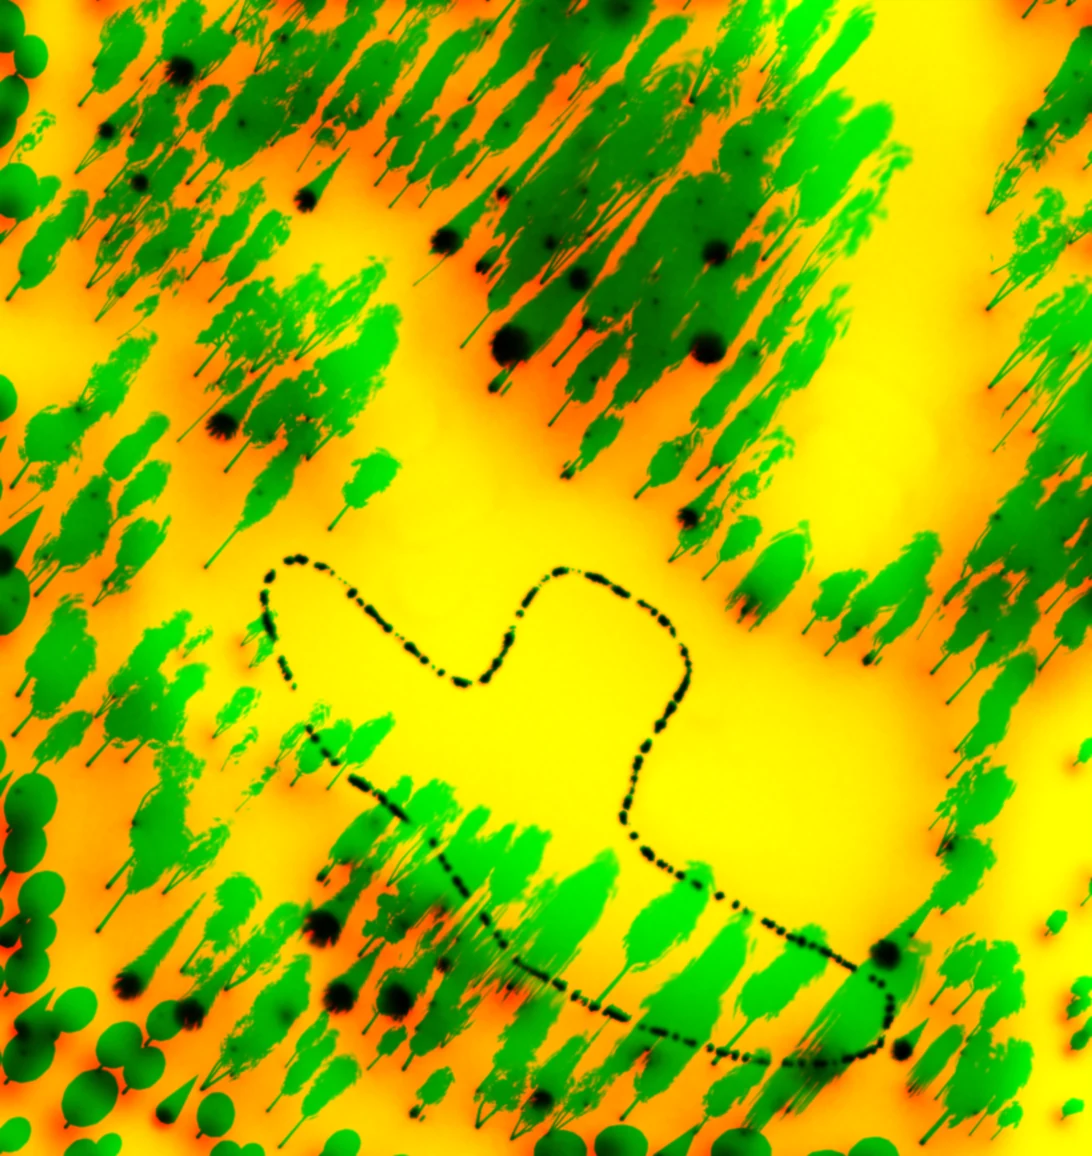
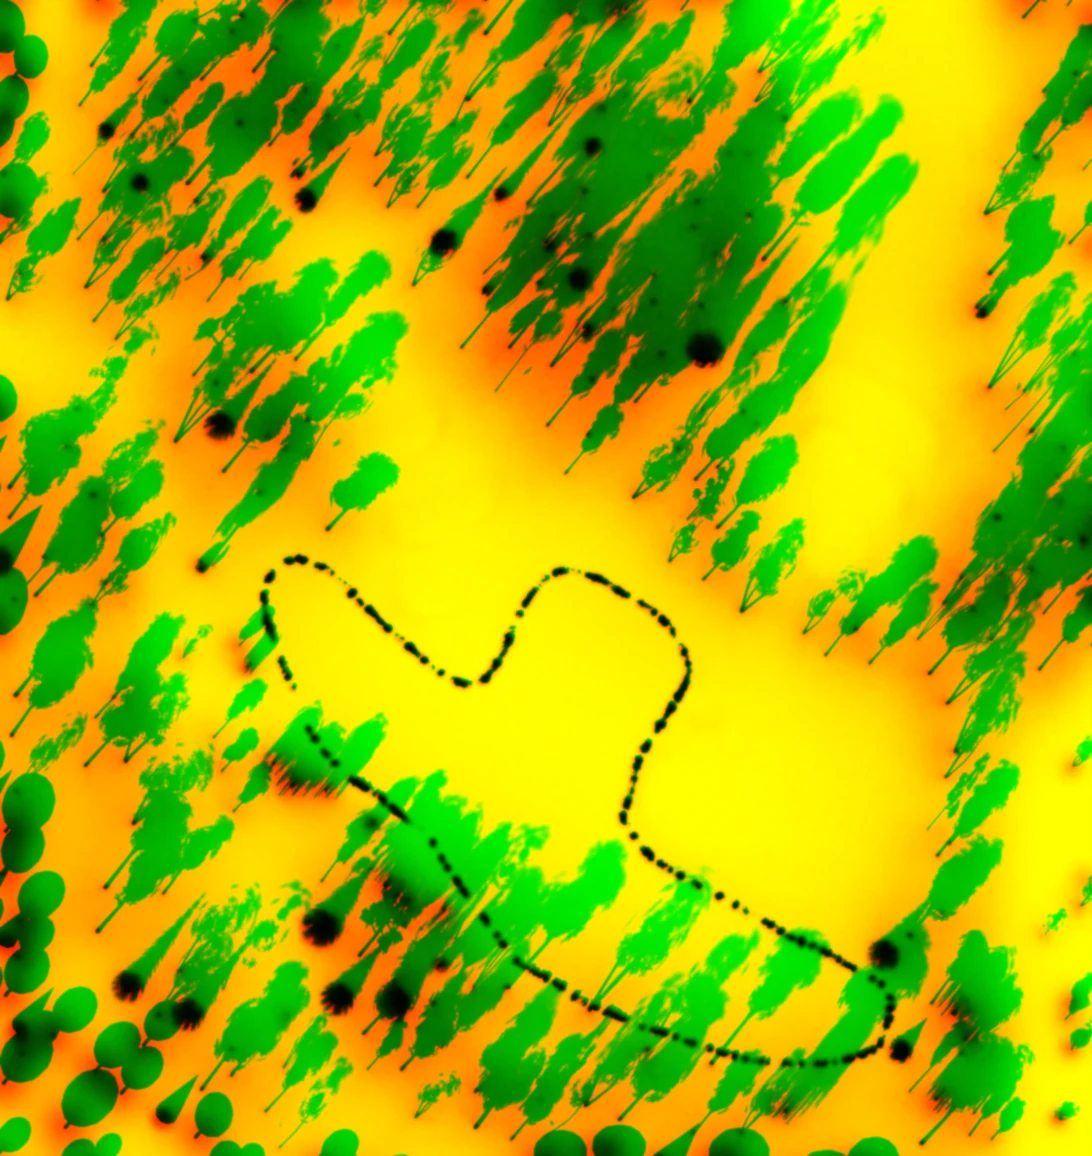
Blender light rebaked with the measured trees: legend

diff --git a/b10/bake.js b/b10/bake.js
@@ -24,7 +24,7 @@ jewel:{mt:1,holes:{0:{b:[-185,-646,271,699],png:'b10/light/jewel/h01.webp?v=2'},
 judge:{mt:1,holes:{0:{b:[-88,-81,414,481],png:'b10/light/judge/h01.webp?v=2'},1:{b:[-61,-88,455,384],png:'b10/light/judge/h02.webp?v=2'},2:{b:[-44,-91,268,173],png:'b10/light/judge/h03.webp?v=2'},3:{b:[-42,-242,638,323],png:'b10/light/judge/h04.webp?v=2'},4:{b:[-371,-89,448,294],png:'b10/light/judge/h05.webp?v=2'},5:{b:[-90,-275,293,350],png:'b10/light/judge/h06.webp?v=2'},6:{b:[-86,-661,287,715],png:'b10/light/judge/h07.webp?v=2'},7:{b:[-298,-72,388,535],png:'b10/light/judge/h08.webp?v=2'},8:{b:[-90,-68,327,469],png:'b10/light/judge/h09.webp?v=2'},9:{b:[-204,-614,291,670],png:'b10/light/judge/h10.webp?v=2'},10:{b:[-89,-371,308,451],png:'b10/light/judge/h11.webp?v=2'},11:{b:[-248,-233,331,320],png:'b10/light/judge/h12.webp?v=2'},12:{b:[-88,-61,234,513],png:'b10/light/judge/h13.webp?v=2'},13:{b:[-402,-88,484,463],png:'b10/light/judge/h14.webp?v=2'},14:{b:[-201,-73,291,629],png:'b10/light/judge/h15.webp?v=2'},15:{b:[-311,-104,357,187],png:'b10/light/judge/h16.webp?v=2'},16:{b:[-89,-383,259,445],png:'b10/light/judge/h17.webp?v=2'},17:{b:[-311,-78,400,392],png:'b10/light/judge/h18.webp?v=2'}}},
 kingsnorth:{holes:{0:{b:[-87,-480,450,563],png:'b10/light/kingsnorth/h01.webp?v=1'},1:{b:[-160,-432,249,496],png:'b10/light/kingsnorth/h02.webp?v=1'},2:{b:[-145,-403,272,466],png:'b10/light/kingsnorth/h03.webp?v=1'},3:{b:[-201,-82,289,304],png:'b10/light/kingsnorth/h04.webp?v=1'},4:{b:[-287,-320,377,393],png:'b10/light/kingsnorth/h05.webp?v=1'},5:{b:[-90,-68,469,442],png:'b10/light/kingsnorth/h06.webp?v=1'},6:{b:[-110,-50,259,524],png:'b10/light/kingsnorth/h07.webp?v=1'},7:{b:[-89,-78,285,319],png:'b10/light/kingsnorth/h08.webp?v=1'},8:{b:[-455,-90,526,368],png:'b10/light/kingsnorth/h09.webp?v=1'},9:{b:[-81,-348,589,436],png:'b10/light/kingsnorth/h10.webp?v=1'},10:{b:[-244,-478,334,553],png:'b10/light/kingsnorth/h11.webp?v=1'},11:{b:[-124,-213,211,271],png:'b10/light/kingsnorth/h12.webp?v=1'},12:{b:[-314,-337,403,401],png:'b10/light/kingsnorth/h13.webp?v=1'},13:{b:[-55,-100,535,227],png:'b10/light/kingsnorth/h14.webp?v=1'},14:{b:[-300,-82,388,632],png:'b10/light/kingsnorth/h15.webp?v=1'},15:{b:[-89,-63,312,524],png:'b10/light/kingsnorth/h16.webp?v=1'},16:{b:[-88,-59,189,269],png:'b10/light/kingsnorth/h17.webp?v=1'},17:{b:[-459,-89,537,399],png:'b10/light/kingsnorth/h18.webp?v=1'}}},
 lawsonia:{mt:1,holes:{0:{b:[-353,-339,427,429],png:'b10/light/lawsonia/h01.webp?v=2'},1:{b:[-89,-344,449,422],png:'b10/light/lawsonia/h02.webp?v=2'},2:{b:[-431,-144,483,260],png:'b10/light/lawsonia/h03.webp?v=2'},3:{b:[-89,-78,295,331],png:'b10/light/lawsonia/h04.webp?v=2'},4:{b:[-85,-51,207,587],png:'b10/light/lawsonia/h05.webp?v=2'},5:{b:[-88,-60,231,543],png:'b10/light/lawsonia/h06.webp?v=2'},6:{b:[-218,-87,275,209],png:'b10/light/lawsonia/h07.webp?v=2'},7:{b:[-48,-84,425,254],png:'b10/light/lawsonia/h08.webp?v=2'},8:{b:[-85,-507,459,559],png:'b10/light/lawsonia/h09.webp?v=2'},9:{b:[-75,-90,353,298],png:'b10/light/lawsonia/h10.webp?v=2'},10:{b:[-171,-575,260,636],png:'b10/light/lawsonia/h11.webp?v=2'},11:{b:[-86,-214,297,299],png:'b10/light/lawsonia/h12.webp?v=2'},12:{b:[-119,-54,205,688],png:'b10/light/lawsonia/h13.webp?v=2'},13:{b:[-87,-205,278,288],png:'b10/light/lawsonia/h14.webp?v=2'},14:{b:[-130,-433,218,491],png:'b10/light/lawsonia/h15.webp?v=2'},15:{b:[-86,-486,239,539],png:'b10/light/lawsonia/h16.webp?v=2'},16:{b:[-365,-89,443,425],png:'b10/light/lawsonia/h17.webp?v=2'},17:{b:[-113,-47,197,687],png:'b10/light/lawsonia/h18.webp?v=2'}}},
-legend:{mt:1,holes:{0:{b:[-285,-406,375,483],png:'b10/light/legend/h01.webp?v=2'},1:{b:[-197,-175,277,264],png:'b10/light/legend/h02.webp?v=2'},2:{b:[-386,-394,476,468],png:'b10/light/legend/h03.webp?v=2'},3:{b:[-337,-390,424,474],png:'b10/light/legend/h04.webp?v=2'},4:{b:[-84,-86,436,477],png:'b10/light/legend/h05.webp?v=2'},5:{b:[-80,-89,342,310],png:'b10/light/legend/h06.webp?v=2'},6:{b:[-73,-90,515,289],png:'b10/light/legend/h07.webp?v=2'},7:{b:[-461,-90,535,383],png:'b10/light/legend/h08.webp?v=2'},8:{b:[-68,-342,598,432],png:'b10/light/legend/h09.webp?v=2'},9:{b:[-257,-460,346,523],png:'b10/light/legend/h10.webp?v=2'},10:{b:[-88,-81,273,289],png:'b10/light/legend/h11.webp?v=2'},11:{b:[-185,-449,267,492],png:'b10/light/legend/h12.webp?v=2'},12:{b:[-81,-466,181,508],png:'b10/light/legend/h13.webp?v=2'},13:{b:[-305,-536,395,607],png:'b10/light/legend/h14.webp?v=2'},14:{b:[-90,-69,396,545],png:'b10/light/legend/h15.webp?v=2'},15:{b:[-121,-50,206,616],png:'b10/light/legend/h16.webp?v=2'},16:{b:[-78,-89,340,299],png:'b10/light/legend/h17.webp?v=2'},17:{b:[-88,-43,174,454],png:'b10/light/legend/h18.webp?v=2'}}},
+legend:{holes:{0:{b:[-285,-406,375,483],png:'b10/light/legend/h01.webp?v=1'},1:{b:[-197,-175,277,264],png:'b10/light/legend/h02.webp?v=1'},2:{b:[-386,-394,476,468],png:'b10/light/legend/h03.webp?v=1'},3:{b:[-337,-390,424,474],png:'b10/light/legend/h04.webp?v=1'},4:{b:[-84,-86,436,477],png:'b10/light/legend/h05.webp?v=1'},5:{b:[-80,-89,342,310],png:'b10/light/legend/h06.webp?v=1'},6:{b:[-73,-90,515,289],png:'b10/light/legend/h07.webp?v=1'},7:{b:[-461,-90,535,383],png:'b10/light/legend/h08.webp?v=1'},8:{b:[-68,-342,598,432],png:'b10/light/legend/h09.webp?v=1'},9:{b:[-257,-460,346,523],png:'b10/light/legend/h10.webp?v=1'},10:{b:[-88,-81,273,289],png:'b10/light/legend/h11.webp?v=1'},11:{b:[-185,-449,267,492],png:'b10/light/legend/h12.webp?v=1'},12:{b:[-81,-466,181,508],png:'b10/light/legend/h13.webp?v=1'},13:{b:[-305,-536,395,607],png:'b10/light/legend/h14.webp?v=1'},14:{b:[-90,-69,396,545],png:'b10/light/legend/h15.webp?v=1'},15:{b:[-121,-50,206,616],png:'b10/light/legend/h16.webp?v=1'},16:{b:[-78,-89,340,299],png:'b10/light/legend/h17.webp?v=1'},17:{b:[-88,-43,174,454],png:'b10/light/legend/h18.webp?v=1'}}},
 legends:{mt:1,holes:{0:{b:[-89,-459,362,525],png:'b10/light/legends/h01.webp?v=2'},1:{b:[-395,-363,473,452],png:'b10/light/legends/h02.webp?v=2'},2:{b:[-513,-85,563,287],png:'b10/light/legends/h03.webp?v=2'},3:{b:[-414,-89,494,546],png:'b10/light/legends/h04.webp?v=2'},4:{b:[-84,-174,264,261],png:'b10/light/legends/h05.webp?v=2'},5:{b:[-56,-87,558,266],png:'b10/light/legends/h06.webp?v=2'},6:{b:[-187,-76,277,315],png:'b10/light/legends/h07.webp?v=2'},7:{b:[-88,-411,428,492],png:'b10/light/legends/h08.webp?v=2'},8:{b:[-278,-77,368,619],png:'b10/light/legends/h09.webp?v=2'},9:{b:[-87,-84,455,424],png:'b10/light/legends/h10.webp?v=2'},10:{b:[-175,-598,266,666],png:'b10/light/legends/h11.webp?v=2'},11:{b:[-88,-404,236,464],png:'b10/light/legends/h12.webp?v=2'},12:{b:[-218,-81,306,333],png:'b10/light/legends/h13.webp?v=2'},13:{b:[-364,-256,436,346],png:'b10/light/legends/h14.webp?v=2'},14:{b:[-428,-90,499,297],png:'b10/light/legends/h15.webp?v=2'},15:{b:[-45,-83,698,291],png:'b10/light/legends/h16.webp?v=2'},16:{b:[-90,-69,262,326],png:'b10/light/legends/h17.webp?v=2'},17:{b:[-304,-87,387,451],png:'b10/light/legends/h18.webp?v=2'}}},
 legislator:{mt:1,holes:{0:{b:[-615,-262,667,383],png:'b10/light/legislator/h01.webp?v=2'},1:{b:[-87,-84,381,480],png:'b10/light/legislator/h02.webp?v=2'},2:{b:[-161,-72,251,287],png:'b10/light/legislator/h03.webp?v=2'},3:{b:[-419,-391,504,476],png:'b10/light/legislator/h04.webp?v=2'},4:{b:[-256,-526,346,600],png:'b10/light/legislator/h05.webp?v=2'},5:{b:[-120,-236,206,290],png:'b10/light/legislator/h06.webp?v=2'},6:{b:[-89,-66,261,528],png:'b10/light/legislator/h07.webp?v=2'},7:{b:[-90,-76,439,568],png:'b10/light/legislator/h08.webp?v=2'},8:{b:[-83,-282,468,370],png:'b10/light/legislator/h09.webp?v=2'},9:{b:[-89,-324,397,401],png:'b10/light/legislator/h10.webp?v=2'},10:{b:[-90,-74,268,307],png:'b10/light/legislator/h11.webp?v=2'},11:{b:[-89,-345,398,425],png:'b10/light/legislator/h12.webp?v=2'},12:{b:[-468,-90,544,485],png:'b10/light/legislator/h13.webp?v=2'},13:{b:[-88,-348,464,429],png:'b10/light/legislator/h14.webp?v=2'},14:{b:[-72,-317,477,407],png:'b10/light/legislator/h15.webp?v=2'},15:{b:[-171,-71,261,309],png:'b10/light/legislator/h16.webp?v=2'},16:{b:[-474,-84,561,607],png:'b10/light/legislator/h17.webp?v=2'},17:{b:[-237,-64,326,487],png:'b10/light/legislator/h18.webp?v=2'}}},
 lehman:{mt:1,holes:{0:{b:[-59,-244,522,332],png:'b10/light/lehman/h01.webp?v=2'},1:{b:[-75,-401,619,491],png:'b10/light/lehman/h02.webp?v=2'},2:{b:[-56,-130,327,217],png:'b10/light/lehman/h03.webp?v=2'},3:{b:[-80,-561,504,650],png:'b10/light/lehman/h04.webp?v=2'},4:{b:[-87,-408,183,451],png:'b10/light/lehman/h05.webp?v=2'},5:{b:[-85,-85,301,301],png:'b10/light/lehman/h06.webp?v=2'},6:{b:[-290,-71,380,532],png:'b10/light/lehman/h07.webp?v=2'},7:{b:[-524,-81,612,476],png:'b10/light/lehman/h08.webp?v=2'},8:{b:[-90,-70,272,544],png:'b10/light/lehman/h09.webp?v=2'},9:{b:[-88,-418,407,500],png:'b10/light/lehman/h10.webp?v=2'},10:{b:[-90,-430,258,500],png:'b10/light/lehman/h11.webp?v=2'},11:{b:[-65,-145,290,234],png:'b10/light/lehman/h12.webp?v=2'},12:{b:[-339,-55,426,646],png:'b10/light/lehman/h13.webp?v=2'},13:{b:[-100,-46,183,322],png:'b10/light/lehman/h14.webp?v=2'},14:{b:[-330,-90,403,256],png:'b10/light/lehman/h15.webp?v=2'},15:{b:[-439,-255,503,344],png:'b10/light/lehman/h16.webp?v=2'},16:{b:[-463,-361,547,447],png:'b10/light/lehman/h17.webp?v=2'},17:{b:[-181,-425,271,492],png:'b10/light/lehman/h18.webp?v=2'}}},

diff --git a/index.html b/index.html
@@ -2,7 +2,7 @@
 <html lang="en">
 <head>
 <meta charset="utf-8">
-<meta name="gg-build" content="8cd35c7320">
+<meta name="gg-build" content="61ea5ee279">
 <meta name="viewport" content="width=device-width,initial-scale=1,viewport-fit=cover">
 <meta name="apple-mobile-web-app-capable" content="yes">
 <meta name="mobile-web-app-capable" content="yes">
@@ -1082,7 +1082,7 @@ window.THREE={ACESFilmicToneMapping:et,AddEquation:y,AddOperation:J,AdditiveAnim
 <script src="data/COURSE_IMG.js?v=23a6e18ef6"></script>
 <!-- /data files -->
 <!-- game code: tools/datafiles.py (the game is in src/) -->
-<script>(function(){var P=["src/start.js?v=d8ceba60e2","src/clubs-and-surfaces.js?v=175a1b0163","src/hole-construction-from-the.js?v=2abe9d5bd9","src/terrain-height.js?v=a37f63fe87","src/terrain-texture.js?v=a3e96548c6","src/lighting-shared-by-every.js?v=cd5a62476a","src/realism.js?v=aa16e80b0d","src/surroundings.js?v=74bd8e969d","src/built-things.js?v=f98fc21593","src/sky-dome.js?v=1c137437ce","src/webgl-ground.js?v=5d371faab8","src/state.js?v=0620065d3e","src/sound.js?v=e6a171fee3","src/ui-helpers.js?v=101dacc8d1","src/flow.js?v=395fe450d7","src/save-file.js?v=73a0901dda","src/daily-round.js?v=ee1c3ca9ec","src/a-golfer-s-daily.js?v=999de9775c","src/menu.js?v=58010d20df","src/pause-screen-and-feedback.js?v=b5ab620041","src/v107-help-and-faq.js?v=73740ead25","src/course-requests.js?v=1b264636bf","src/career.js?v=8c56e6444d","src/golfers.js?v=ac0e2525f8","src/match-state.js?v=7a407e7535","src/the-rival-s-shot.js?v=aedfc0dd26","src/career-screens.js?v=834dde70da","src/camera.js?v=72b4256890","src/3d-meshes.js?v=031d0e6eb9","src/divots.js?v=5d712295af","src/feel.js?v=cc5f67f75b","src/render.js?v=bbfcd83bef","src/choosing-a-golfer.js?v=59f6ffe37b","src/arm-ik.js?v=a254fdde50","src/real-tree-positions-from.js?v=0488c42a77","src/shader-patches-shared-by.js?v=1d67bace22","src/ground.js?v=95a21c663d","src/sky.js?v=cb305a137b","src/weather.js?v=1fc7d09e82","src/per-hole-scene-content.js?v=8522a6ceff","src/immediate-mode-primitives.js?v=0052447815","src/camera-straight-from-v.js?v=1bad554182","src/post-chain.js?v=d105739265","src/hud.js?v=49f3bf64c8","src/loop.js?v=25bd5af309","src/saved-shots.js?v=57bf3fbf0a","src/input.js?v=768869bb54","src/home-screen.js?v=124d004c02","src/sizing.js?v=67b1e861b4","src/boot.js?v=364c778f34"],t="",i,x;for(i=0;i<P.length;i++){x=new XMLHttpRequest();x.open("GET",P[i],false);x.send();if(x.status!==200&&x.status!==0)throw new Error("game code: could not load "+P[i]);t+=x.responseText;}var s=document.createElement("script");s.text="\n"+t+"//# sourceURL=game.js\n";document.currentScript.after(s);})();</script>
+<script>(function(){var P=["src/start.js?v=d8ceba60e2","src/clubs-and-surfaces.js?v=175a1b0163","src/hole-construction-from-the.js?v=2abe9d5bd9","src/terrain-height.js?v=a37f63fe87","src/terrain-texture.js?v=a3e96548c6","src/lighting-shared-by-every.js?v=cd5a62476a","src/realism.js?v=aa16e80b0d","src/surroundings.js?v=74bd8e969d","src/built-things.js?v=f98fc21593","src/sky-dome.js?v=1c137437ce","src/webgl-ground.js?v=5d371faab8","src/state.js?v=0620065d3e","src/sound.js?v=e6a171fee3","src/ui-helpers.js?v=101dacc8d1","src/flow.js?v=395fe450d7","src/save-file.js?v=73a0901dda","src/daily-round.js?v=59564241f5","src/a-golfer-s-daily.js?v=999de9775c","src/menu.js?v=58010d20df","src/pause-screen-and-feedback.js?v=b5ab620041","src/v107-help-and-faq.js?v=73740ead25","src/course-requests.js?v=1b264636bf","src/career.js?v=8c56e6444d","src/golfers.js?v=ac0e2525f8","src/match-state.js?v=7a407e7535","src/the-rival-s-shot.js?v=aedfc0dd26","src/career-screens.js?v=834dde70da","src/camera.js?v=72b4256890","src/3d-meshes.js?v=031d0e6eb9","src/divots.js?v=5d712295af","src/feel.js?v=cc5f67f75b","src/render.js?v=bbfcd83bef","src/choosing-a-golfer.js?v=59f6ffe37b","src/arm-ik.js?v=a254fdde50","src/real-tree-positions-from.js?v=0488c42a77","src/shader-patches-shared-by.js?v=1d67bace22","src/ground.js?v=95a21c663d","src/sky.js?v=cb305a137b","src/weather.js?v=1fc7d09e82","src/per-hole-scene-content.js?v=8522a6ceff","src/immediate-mode-primitives.js?v=0052447815","src/camera-straight-from-v.js?v=1bad554182","src/post-chain.js?v=d105739265","src/hud.js?v=49f3bf64c8","src/loop.js?v=25bd5af309","src/saved-shots.js?v=57bf3fbf0a","src/input.js?v=768869bb54","src/home-screen.js?v=124d004c02","src/sizing.js?v=67b1e861b4","src/boot.js?v=364c778f34"],t="",i,x;for(i=0;i<P.length;i++){x=new XMLHttpRequest();x.open("GET",P[i],false);x.send();if(x.status!==200&&x.status!==0)throw new Error("game code: could not load "+P[i]);t+=x.responseText;}var s=document.createElement("script");s.text="\n"+t+"//# sourceURL=game.js\n";document.currentScript.after(s);})();</script>
 <!-- /game code -->
 
 <script>/* What's New. Add the newest update at the TOP of UPDATES; its id must be new each time. */

diff --git a/src/daily-round.js b/src/daily-round.js
@@ -79,7 +79,7 @@ function b10K(){const c=b10On()&&typeof B10BAKE!=='undefined'&&B10BAKE.courses?B
   if(c&&typeof tlOn==='function'&&tlOn()!==!!c.mt)return null;   // light baked with other trees than the ones standing (measured vs photo): live shadows instead
   return c&&c.holes?c.holes[G.hi]||null:null;}   // this hole's baked light (b: bounds, png)
 function b10Hole(){return !!b10K();}
-function b10Load(done){const L=['b10/bake.js?v=50','b10/trees.js?v=3'];window.B10LEAF='b10/leaves.webp?v=1';let n=L.length;for(const s of L){const e=document.createElement('script');e.src=s;e.onload=e.onerror=()=>{if(--n===0)done();};document.head.appendChild(e);}}
+function b10Load(done){const L=['b10/bake.js?v=51','b10/trees.js?v=3'];window.B10LEAF='b10/leaves.webp?v=1';let n=L.length;for(const s of L){const e=document.createElement('script');e.src=s;e.onload=e.onerror=()=>{if(--n===0)done();};document.head.appendChild(e);}}
 function b10Trees(P){const dec=(s,T)=>{const b=atob(s),u=new Uint8Array(b.length);for(let i=0;i<b.length;i++)u[i]=b.charCodeAt(i);return new T(u.buffer);};
   const arr=(r,st)=>{const Pp=dec(r.P,Int16Array),N=dec(r.N,Int8Array),C=dec(r.C,Uint8Array),U=r.U?dec(r.U,Int16Array):null,o=new Array(r.n*st);
     for(let i=0;i<r.n;i++){const k=i*st;o[k]=Pp[i*3]/1000;o[k+1]=Pp[i*3+1]/1000;o[k+2]=Pp[i*3+2]/1000;o[k+3]=N[i*3]/127;o[k+4]=N[i*3+1]/127;o[k+5]=N[i*3+2]/127;

diff --git a/sw.js b/sw.js
@@ -1,6 +1,6 @@
 /* Golf Go offline cache. The page is checked online first (so updates show straight away) and falls back to the copy on
    this phone; course data carries a version tag (?v=…) and is kept until it changes; leaderboards always go to the network. */
-const V='c3085baecf',B='8cd35c7320',CORE='core-'+V,ASSETS='assets';
+const V='e18b8da75e',B='61ea5ee279',CORE='core-'+V,ASSETS='assets';
 const CORE_FILES=['./','index.html','manifest.webmanifest','icon-192.png','icon-512.png','apple-touch-icon.png'];
 const DATA=["greens.js?v=db85f90c53", "ground.js?v=4a589b8b73", "trees.js?v=5fc7c487ff", "char%20ch12.js?v=lg2", "char%20remy.js?v=lg2", "char%20ch01.js?v=lg2", "char_ch08.js?v=lg2", "char_ch42.js?v=lg2", "char_ch23.js?v=lg2", "char%20ch28.js?v=lg2", "char_mx_joe.js?v=lg2", "char_ch17.js?v=lg2", "char_mh_tyger.js?v=m4", "char_mh_jack.js?v=m4", "char_mh_arnie.js?v=m4", "char_mh_phil.js?v=m4", "char_mh_rory.js?v=m4", "char_mh_scotty.js?v=m4", "char_mh_seve.js?v=m4", "char_mh_barry.js?v=m4", "char_mh_hoagan.js?v=m4", "char_mh_payne.js?v=m4"];   // current versioned data files
 const PRE=[];   // publish build: the shared graphics files (a/ga_*.js?v=…), saved at install so even the first launch offline works
